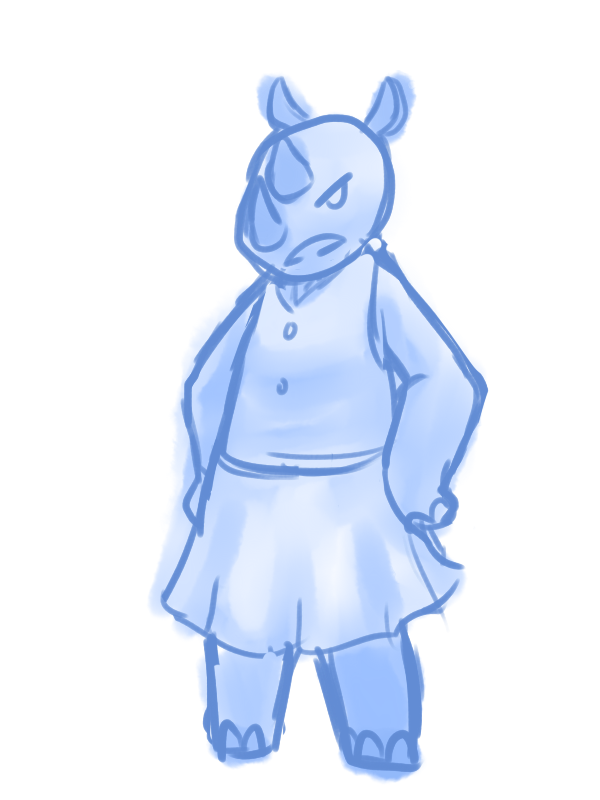
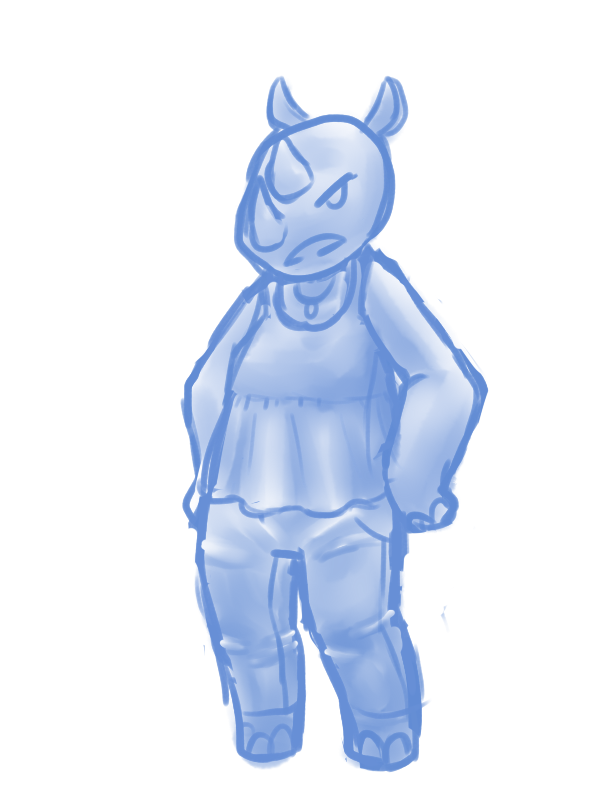
Fatu now appears in the datenight

Changed region(s): [[0.24, 0.0938, 0.81, 1.0], [0.72, 0.4688, 0.75, 0.5], [0.66, 0.3438, 0.69, 0.375]]

diff --git a/Rhinoceromance/js/States/datenight.js b/Rhinoceromance/js/States/datenight.js
@@ -3,7 +3,12 @@ var DateNight={
 	create: function(){ //creates everything needed for the current main game state
 		console.log("DateNight: create");
 
-		var cannery = game.add.sprite(0,0,"concert");
+		this.bg = game.add.sprite(0,0,"line");
+
+		this.fatusprite = game.add.sprite(game.world.width/2,game.world.height/2+100,"fatu"); //add Fatu's sprite
+		this.fatusprite.anchor.x=.5;
+		this.fatusprite.anchor.y=.5;
+
 		this.textarray=[]; //array that holds all the game text for this part
 		this.storypart="fatu_start"; //keeps track of which part of the story we're on
 		this.successes=0;
@@ -221,7 +226,7 @@ var DateNight={
 				choicebutton1.scale.setTo(.75,.75);
 				choicebutton1.anchor.x=.5;
 				choicebutton1.anchor.y=.5;
-				var buttontext1=game.add.text(choicebutton1.x,choicebutton1.y,"That one catchy song your friend always sings (Charm)",{ fontSize: '22px', fill: 'white'});
+				var buttontext1=game.add.text(choicebutton1.x,choicebutton1.y,"That one catchy song your\nfriend always sings (Charm)",{ fontSize: '22px', fill: 'white'});
 				buttontext1.anchor.x=.5;
 				buttontext1.anchor.y=.5;
 
@@ -229,7 +234,7 @@ var DateNight={
 				choicebutton2.scale.setTo(.75,.75);
 				choicebutton2.anchor.x=.5;
 				choicebutton2.anchor.y=.5;
-				var buttontext2=game.add.text(choicebutton2.x,choicebutton2.y,"The fashion trend their lead singer started (Style)",{ fontSize: '22px', fill: 'white'});
+				var buttontext2=game.add.text(choicebutton2.x,choicebutton2.y,"The fashion trend their\nlead singer started (Style)",{ fontSize: '22px', fill: 'white'});
 				buttontext2.anchor.x=.5;
 				buttontext2.anchor.y=.5;
 				break;
@@ -237,15 +242,18 @@ var DateNight={
 			case "fatu_start_charm_failure":
 			case "fatu_start_style_success":
 			case "fatu_start_style_failure":
+				DateNight.fatusprite.loadTexture("fatu");
+				DateNight.bg.loadTexture("concert");
 				DateNight.storypart="fatu_keyboardist";
 				DateNight.readInText();
 				break;
 			case "fatu_keyboardist":
+				DateNight.fatusprite.loadTexture("fatusurprised");
 				let choicebutton3=game.add.button(440,360,"buttonsheet",function(){DateNight.statCheck("smarts"); buttontext3.destroy(); choicebutton3.destroy(); buttontext4.destroy(); choicebutton4.destroy();},this,"over","out","down");
 				choicebutton3.scale.setTo(.75,.75);
 				choicebutton3.anchor.x=.5;
 				choicebutton3.anchor.y=.5;
-				var buttontext3=game.add.text(choicebutton3.x,choicebutton3.y,"Mess with the keyboard's settings (Smarts)",{ fontSize: '22px', fill: 'white'});
+				var buttontext3=game.add.text(choicebutton3.x,choicebutton3.y,"Mess with the keyboard's\nsettings (Smarts)",{ fontSize: '22px', fill: 'white'});
 				buttontext3.anchor.x=.5;
 				buttontext3.anchor.y=.5;
 
@@ -261,6 +269,7 @@ var DateNight={
 			case "fatu_keyboardist_style_failure":
 			case "fatu_keyboardist_smarts_success":
 			case "fatu_keyboardist_smarts_failure":
+				DateNight.fatusprite.loadTexture("fatu");
 				DateNight.storypart="fatu_mosh";
 				DateNight.readInText();
 				break;
@@ -277,7 +286,7 @@ var DateNight={
 				choicebutton6.scale.setTo(.75,.75);
 				choicebutton6.anchor.x=.5;
 				choicebutton6.anchor.y=.5;
-				var buttontext6=game.add.text(choicebutton6.x,choicebutton6.y,"Just try not to get hurt (Smarts)",{ fontSize: '22px', fill: 'white'});
+				var buttontext6=game.add.text(choicebutton6.x,choicebutton6.y,"Just try not\nto get hurt (Smarts)",{ fontSize: '22px', fill: 'white'});
 				buttontext6.anchor.x=.5;
 				buttontext6.anchor.y=.5;
 				break;
@@ -285,6 +294,7 @@ var DateNight={
 			case "fatu_mosh_fitness_failure":
 			case "fatu_mosh_smarts_success":
 			case "fatu_mosh_smarts_failure":
+				DateNight.fatusprite.loadTexture("fatubashful");
 				DateNight.storypart="fatu_dance";
 				DateNight.readInText();
 				break;
@@ -301,7 +311,7 @@ var DateNight={
 				choicebutton8.scale.setTo(.75,.75);
 				choicebutton8.anchor.x=.5;
 				choicebutton8.anchor.y=.5;
-				var buttontext8=game.add.text(choicebutton8.x,choicebutton8.y,"Lead Fatu in a dance (Fitness)",{ fontSize: '22px', fill: 'white'});
+				var buttontext8=game.add.text(choicebutton8.x,choicebutton8.y,"Lead Fatu in\na dance (Fitness)",{ fontSize: '22px', fill: 'white'});
 				buttontext8.anchor.x=.5;
 				buttontext8.anchor.y=.5;
 				break;
@@ -309,10 +319,16 @@ var DateNight={
 			case "fatu_dance_fitness_failure":
 			case "fatu_dance_charm_success":
 			case "fatu_dance_charm_failure":
-				if(DateNight.successes>=2)
+				if(DateNight.successes>=2){
+					DateNight.bg.loadTexture("fatucharmedcg");
+					DateNight.fatusprite.destroy();
 					DateNight.storypart="fatu_end_success";				
-				else
+				}
+				else{
+					DateNight.bg.loadTexture("line");
+					DateNight.fatusprite.destroy();
 					DateNight.storypart="fatu_end_failure";
+				}
 				DateNight.readInText();
 				break;
 			case "fatu_end_failure":
@@ -328,19 +344,25 @@ var DateNight={
 			case "fatu_start":
 				if(stat=="charm"){
 					if(player.charm+Math.floor((Math.random()*50)+1)>50){
+						this.fatusprite.loadTexture("fatubashful");
 						this.storypart="fatu_start_charm_success";
 						this.successes++;
 					}
-					else
+					else{
+						this.fatusprite.loadTexture("fatudisappoint");
 						this.storypart="fatu_start_charm_failure";
+					}
 				}
 				else{
 					if(player.style+Math.floor((Math.random()*30)+1)>30){
+						this.fatusprite.loadTexture("fatusurprise");
 						this.storypart="fatu_start_style_success";
 						this.successes++;
 					}
-					else
+					else{
+						this.fatusprite.loadTexture("fatuangry");
 						this.storypart="fatu_start_style_failure";
+					}
 				}
 				break;
 			case "fatu_keyboardist":
@@ -349,52 +371,68 @@ var DateNight={
 						this.storypart="fatu_keyboardist_smarts_success";
 						this.successes++;
 					}
-					else
+					else{
+						this.fatusprite.loadTexture("fatudisappoint");
 						this.storypart="fatu_keyboardist_smarts_failure";
+					}
 				}
 				else{
 					if(player.style+Math.floor((Math.random()*30)+1)>30){
 						this.storypart="fatu_keyboardist_style_success";
 						this.successes++;
 					}
-					else
+					else{
+						this.fatusprite.loadTexture("fatuangry");
 						this.storypart="fatu_keyboardist_style_failure";
+					}
 				}
 				break;
 			case "fatu_mosh":
 				if(stat=="fitness"){
 					if(player.charm+Math.floor((Math.random()*30)+1)>30){
+						this.fatusprite.loadTexture("fatuhappy");
 						this.storypart="fatu_mosh_fitness_success";
 						this.successes++;
 					}
-					else
+					else{
+						this.fatusprite.loadTexture("fatudisappoint");
 						this.storypart="fatu_mosh_fitness_failure";
+					}
 				}
 				else{
 					if(player.smarts+Math.floor((Math.random()*50)+1)>50){
+						DateNight.fatusprite.loadTexture("fatusurprise");
 						this.storypart="fatu_mosh_smarts_success";
 						this.successes++;
 					}
-					else
+					else{
+						DateNight.fatusprite.loadTexture("fatudisappoint");
 						this.storypart="fatu_mosh_smarts_failure";
+					}
 				}
 				break;
 			case "fatu_dance":
 				if(stat=="fitness"){
 					if(player.charm+Math.floor((Math.random()*30)+1)>30){
+						this.fatusprite.loadTexture("fatuhappy");
 						this.storypart="fatu_dance_fitness_success";
 						this.successes++;
 					}
-					else
+					else{
+						DateNight.fatusprite.loadTexture("fatuangry");
 						this.storypart="fatu_dance_fitness_failure";
+					}
 				}
 				else{
 					if(player.charm+Math.floor((Math.random()*50)+1)>50){
+						this.fatusprite.loadTexture("fatuhappy");
 						this.storypart="fatu_dance_charm_success";
 						this.successes++;
 					}
-					else
+					else{
+						this.fatusprite.loadTexture("fatuangry");
 						this.storypart="fatu_dance_charm_failure";
+					}
 				}
 				break;
 		}

diff --git a/Rhinoceromance/js/States/preloader.js b/Rhinoceromance/js/States/preloader.js
@@ -19,6 +19,7 @@ var Preloader={
 		this.load.image("fatucharmedcg","img/fatucharmedcg.png");
 		this.load.image("fatudisappoint","img/fatudisappoint.png");
 		this.load.image("fatuhappy","img/fatuhappy.png");
+		this.load.image("fatusurprise","img/fatusurprise.png");
 		this.load.image("heart","img/heart.png");
 		this.load.image("brokenheart","img/broken_heart.png");
 		this.load.image("apartment","img/bg.png");
@@ -32,6 +33,7 @@ var Preloader={
 		this.load.image("charming","img/charming.png");
 		this.load.image("cannery", "img/cannery.png");
 		this.load.image("concert", "img/concert.png");
+		this.load.image("line", "img/line.png");
 		this.load.image("charm","img/charm.png");
 		this.load.image("style","img/style.png");
 		this.load.image("smarts","img/smarts.png");
